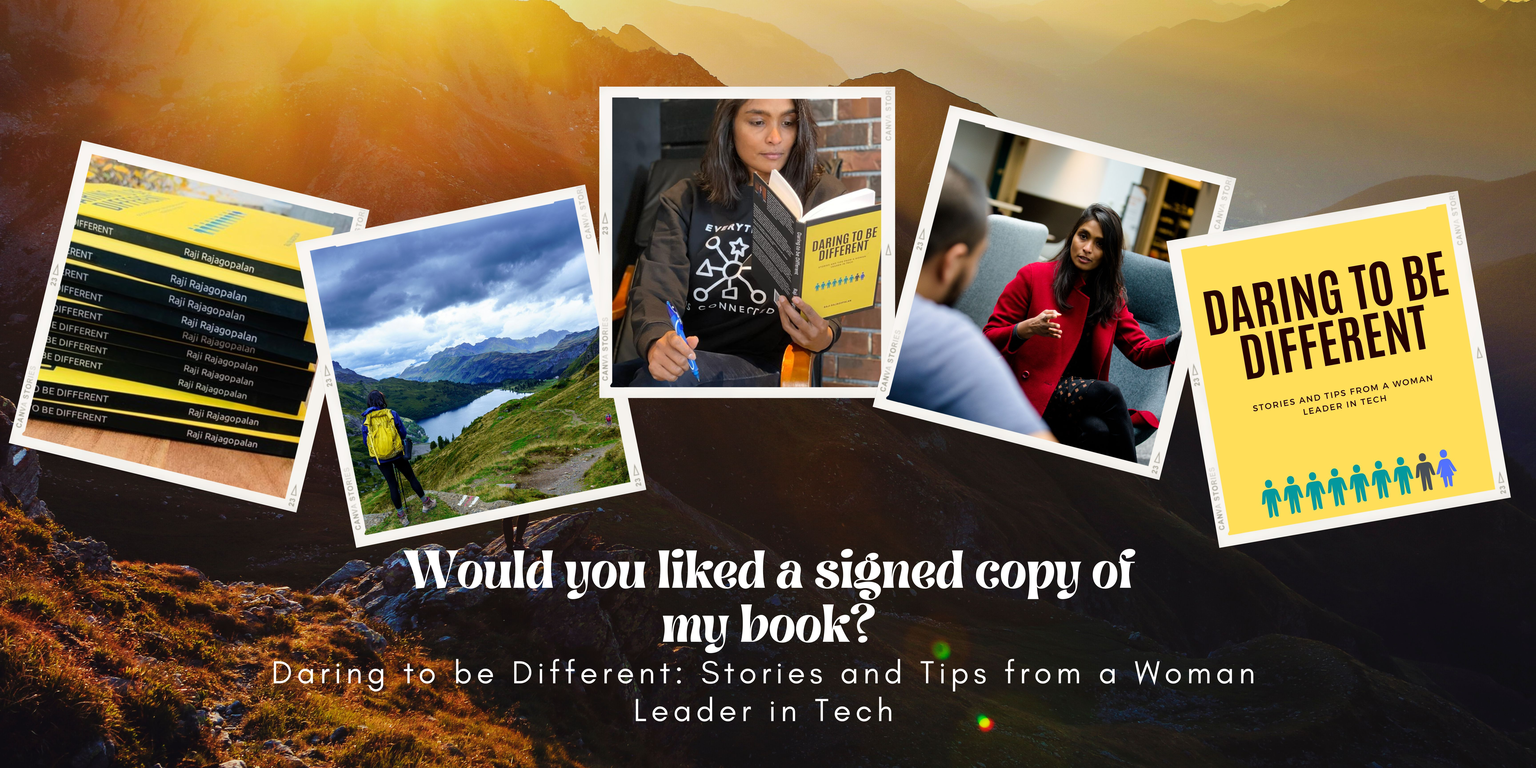
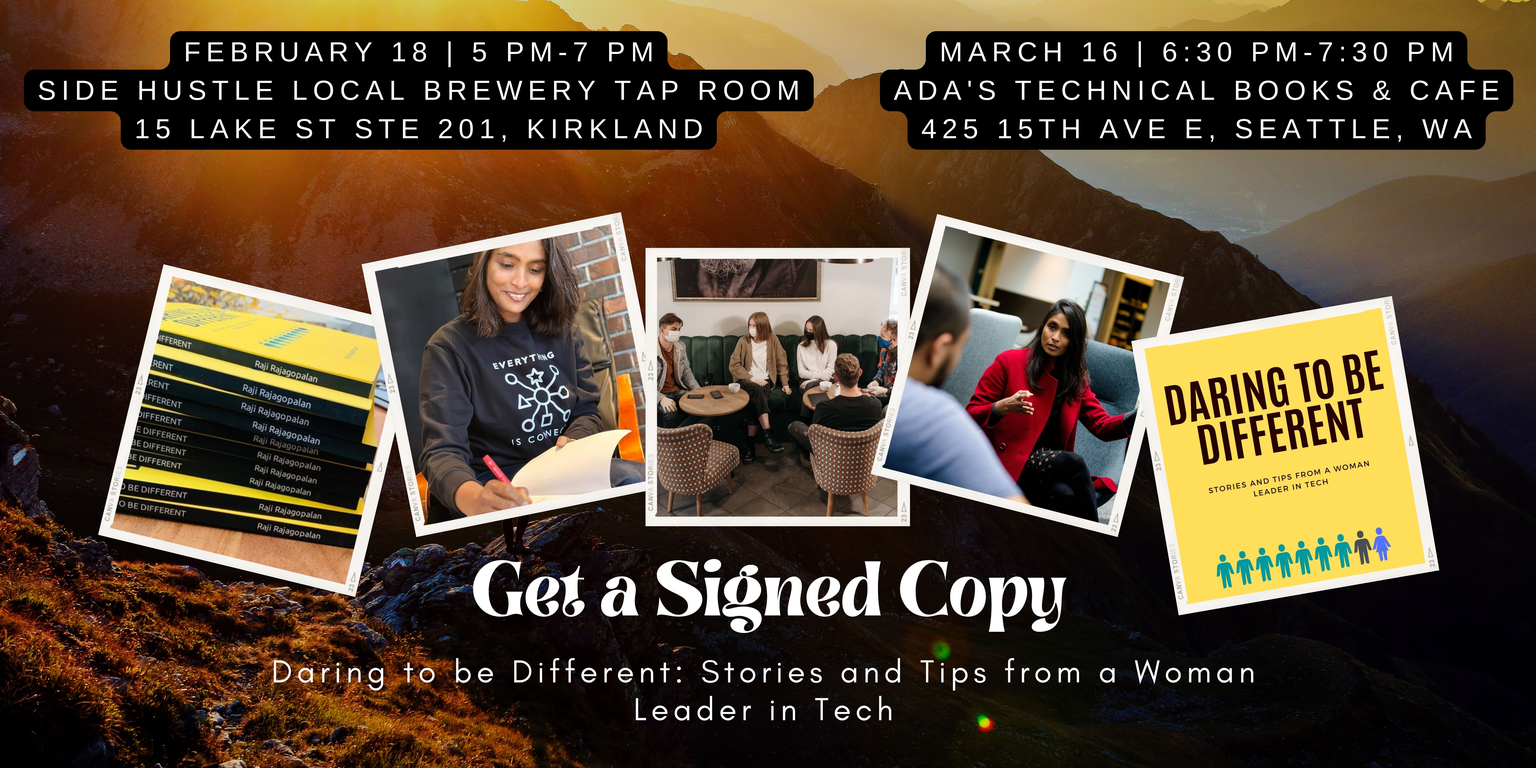
adding post about community

diff --git a/posts/community.html b/posts/community.html
@@ -53,8 +53,9 @@ date: January 16, 2023
 <figure>
     <a href="/contact">
     <img src="https://thisisrajiraj.github.io/posts/images/community.jpg"  
-    style="max-width: 75%;max-height: 75%;"/>
-    <figcaption>Would you like a signed copy of my new book? Send me a note via the Contact form with your email. I will send you the details.</figcaption>
+    style="max-width: 100%;max-height: 100%;"/>
+    <figcaption>If you are in the Greater Seattle area and want a signed copy, come to one of the two upcoming signing events 
+        on <a href="https://www.eventbrite.com/e/book-launch-signing-for-daring-to-be-different-with-raji-rajagopalan-tickets-516211260777">Feb 18 at Side Hustle Taproom in Kirkland</a> and on <a href="https://fb.me/e/67NF7krqU">March 16 at Ada's Technical Books and Cafe in Seattle</a>. I will have books and sign your copies. Look forward to seeing you!</figcaption>
     </a>
 </figure>
 
